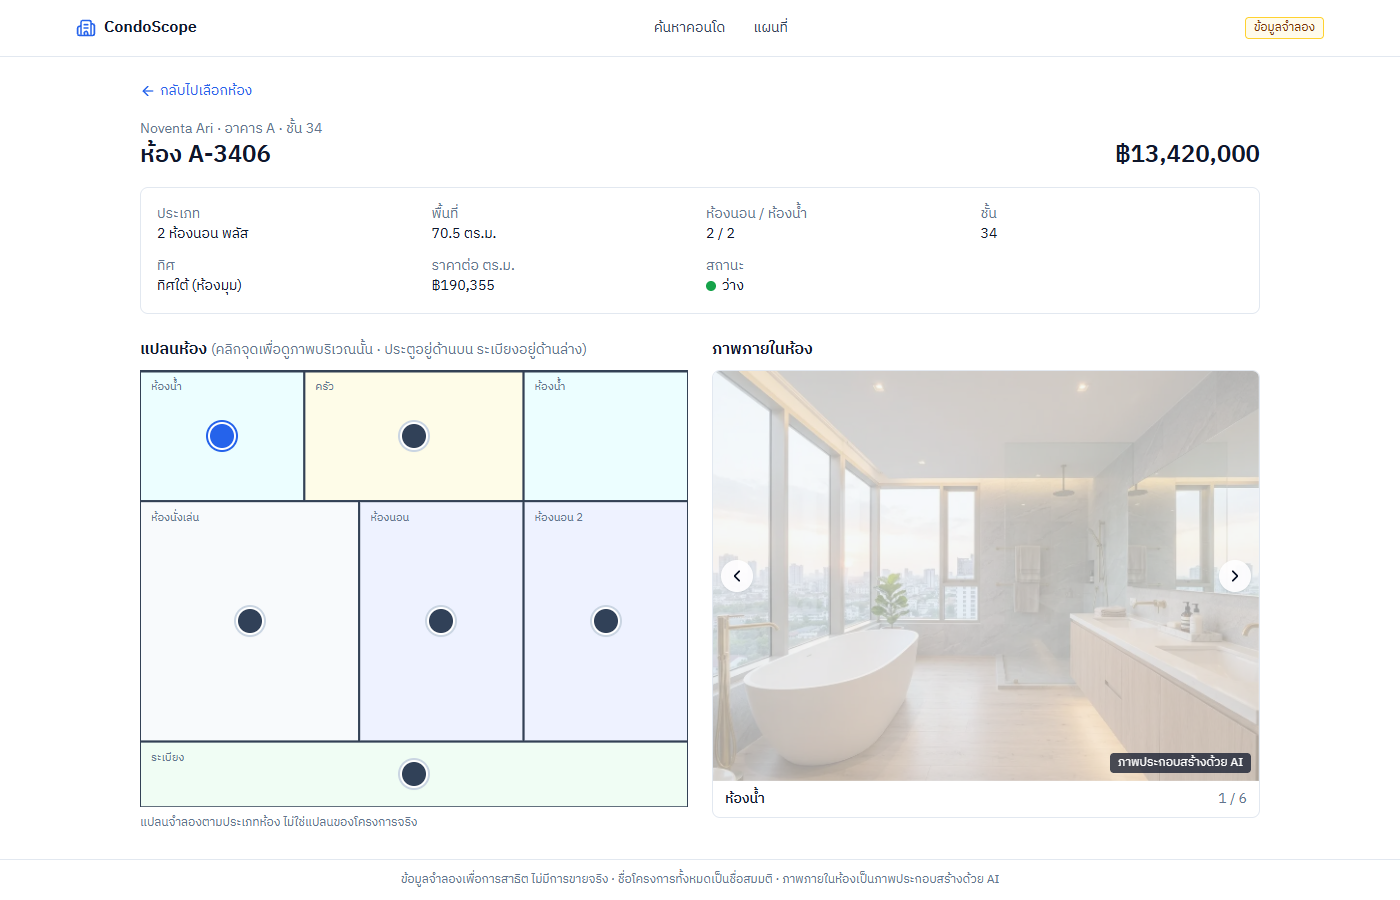
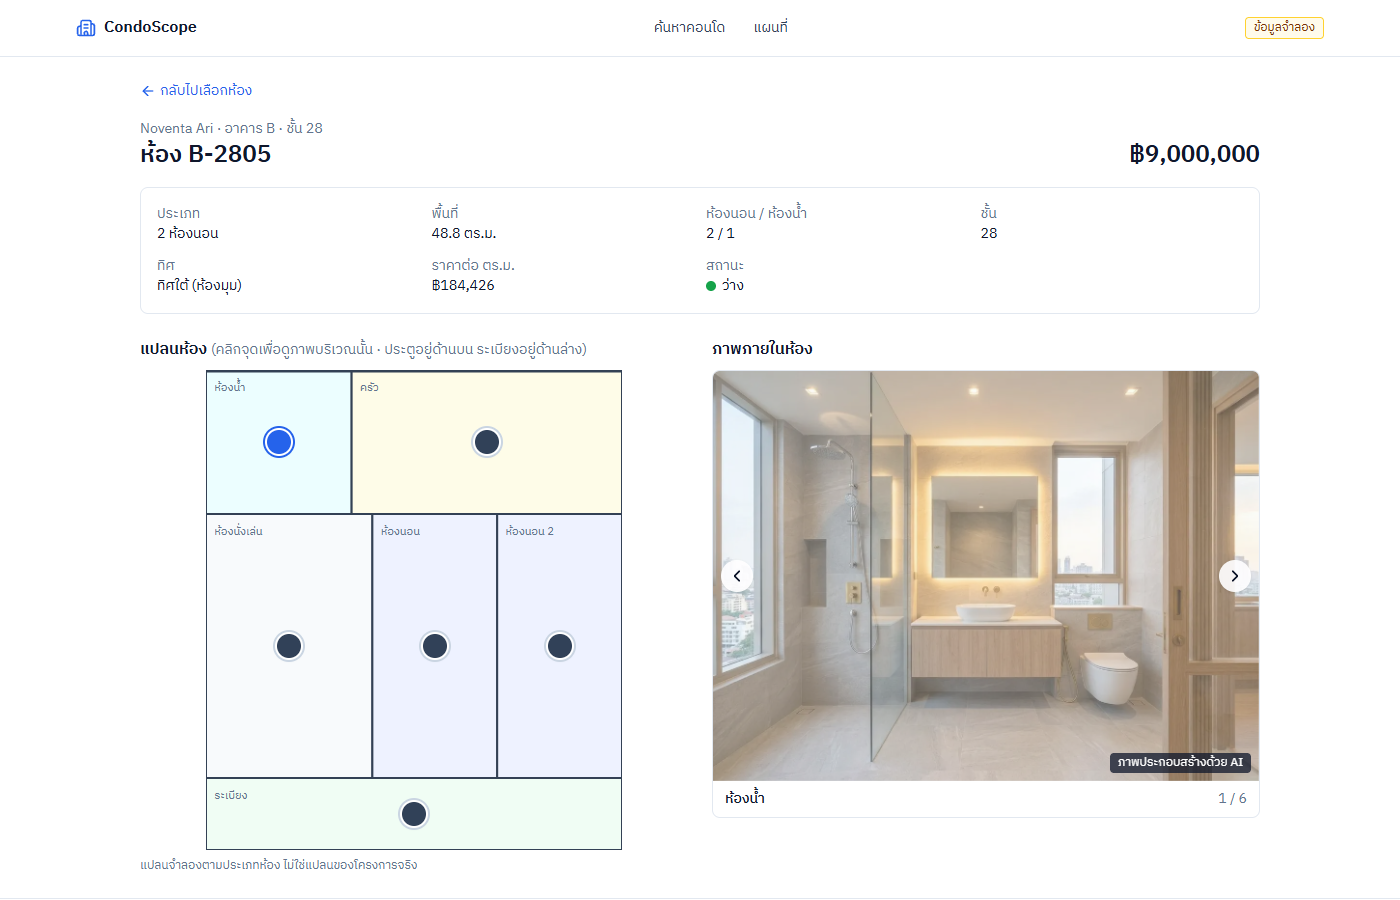
docs: screenshots, README and architecture for the full-screen explorer; plan 4 status

diff --git a/apps/web/e2e/screenshots.spec.ts b/apps/web/e2e/screenshots.spec.ts
@@ -10,7 +10,7 @@ const dir = fileURLToPath(new URL('../../../docs/screenshots/', import.meta.url)
 const shot = (page: import('@playwright/test').Page, name: string) => page.screenshot({ path: `${dir}${name}.png` });
 const MINIMAL_STYLE = { version: 8, sources: {}, layers: [{ id: 'bg', type: 'background', paint: { 'background-color': '#e8eef5' } }] };
 
-test('ภาพหน้าจอ 6 หน้าสำหรับ README', async ({ page }) => {
+test('ภาพหน้าจอสำหรับ README (6 หน้า + มุมมองชั้น + มือถือ)', async ({ page }) => {
   mkdirSync(dir, { recursive: true });
   await page.route('https://tiles.openfreemap.org/**', (r) => r.fulfill({ status: 200, contentType: 'application/json', body: JSON.stringify(MINIMAL_STYLE) }));
 
@@ -43,8 +43,25 @@ test('ภาพหน้าจอ 6 หน้าสำหรับ README', asyn
   await page.waitForTimeout(500);
   await shot(page, 'explorer');
 
+  // the floor view: "ดูทั้งชั้น" glides the camera over the floor; wait until it has arrived
+  await page.getByRole('button', { name: /^ดูทั้งชั้น \d+$/ }).click();
+  await page.waitForFunction(() => !window.__condoscope!.cameraBusy(), null, { timeout: 60_000 });
+  await page.waitForTimeout(2000);
+  await shot(page, 'explorer-floor');
+
   await page.goto(`#/unit/${u.id}`);
   await expect(page.getByRole('heading', { level: 1 })).toHaveText(`ห้อง ${u.unit_number}`);
   await page.waitForLoadState('networkidle');
+  await page.waitForFunction(() => { const i = document.querySelector('figure img') as HTMLImageElement | null; return !!i && i.complete && i.naturalWidth > 0; }, null, { timeout: 30_000 });
   await shot(page, 'unit');
+
+  // a phone: the explorer with the bottom sheet peeking after a room was picked
+  await page.setViewportSize({ width: 390, height: 844 });
+  await open3D(page, 1);
+  const [m] = await visibleUnits(page, 1, 1);
+  await page.mouse.click(m.x, m.y);
+  await expect(page.getByRole('region', { name: 'แผงห้อง' }).getByText(new RegExp(`ห้อง ${m.unit_number}`))).toBeVisible();
+  await page.mouse.move(2, 2); // no hover tooltip on a phone
+  await page.waitForTimeout(300);
+  await shot(page, 'explorer-mobile');
 });

diff --git a/CLAUDE.md b/CLAUDE.md
@@ -48,12 +48,13 @@
   - ⚠ บน Windows Playwright ค้างประมาณ 5 นาทีตอนปิดเซิร์ฟเวอร์หลังรัน test เสร็จ (ผล test ไม่กระทบ) · e2e ใช้พอร์ต 4321
   - บันทึกการตัดสินใจระหว่างพัฒนาอยู่ใน `.superpowers/sdd/2026-11-09-plan-1-data-explorer-unit/progress.md` (ไม่อยู่ใน git)
 - 💤 **งานเสริมหลังแผน 3 (ยังไม่เริ่ม ห้ามเริ่มเองจนกว่าผู้ใช้อนุญาต):** เพิ่มประเภทห้องใหม่ 3 แบบตามลำดับ penthouse (ห้องใหญ่ชั้นบนสุด) → duplex (ห้อง 2 ชั้น แปลนแยกสองชั้น) → full-floor (ห้องเดียวทั้งชั้น) ต้องแก้โมเดลข้อมูล, ตัวสร้างตึก 3D, หน้ารายละเอียดห้อง, รูปภายใน (ผู้ใช้เจนเองด้วย Gemini) และ test case ใน `docs/qa-ba/` — รายละเอียดในสเปกข้อ 14
-- 📝 **แผน 4 (รอบ UX/UI) เขียนแล้ว รอผู้ใช้อนุมัติ — ห้ามเขียนโค้ดจนกว่าจะอนุมัติ** (`docs/plans/2026-11-11-plan-4-ux-ui.md`, 9 task: Explorer เต็มจอ + แผงลอยโปร่งแสง, กล้องหลบแผง, bottom sheet มือถือ, คีย์บอร์ด/screen reader, ยืนยันหมุด→หน้าโครงการ, ปัญหาจาก QA ถ้ามี) · ผู้ใช้สั่งเพิ่ม 2026-11-09 · **คำตอบผู้ใช้ 2026-11-11: กดหมุดแผนที่แล้วไปหน้าโครงการ** (ตรงกับที่ทำไว้แล้ว ข้อขัดแย้งกับสเปกข้อ 8.1 ปิดแล้ว) · งานเสริมประเภทห้องยังไม่อนุญาต
-  - หน้า Explorer: ตึก 3D เต็มหน้าจอ แผงรายการห้อง/ตัวกรอง/รายละเอียดห้องลอยทับด้านข้างแบบโปร่งแสง (ต้องคงใช้คีย์บอร์ดและ screen reader ได้ และบนมือถือยังเป็น bottom sheet)
-  - แผนที่กรุงเทพฯ (MapLibre + OpenFreeMap) ปักหมุดทั้ง 5 โครงการตามพิกัดในข้อมูลจำลอง กดหมุดแล้วเข้า Explorer ของโครงการนั้น — ⚠ ขัดกับสเปกข้อ 8.1 ที่ให้ 3D เข้าผ่านหน้าโครงการ: ถามผู้ใช้ก่อนทำว่าจะให้หมุดไป Explorer ตรงๆ หรือไปหน้าโครงการ (หรือ popup มีปุ่มทั้งสอง)
-  - หน้าแรกยังเป็นหน้าค้นหาก่อน แผนที่เป็นมุมมองสลับ (ตามกฎเดิม)
-  - ตรวจ terms ของ OpenFreeMap ก่อนทำแผนที่ (ตรงกับสเปกข้อ 13.12)
-  - หมายเหตุ: แผน 3 มีหน้า Map (หมุด 5 โครงการ + popup) อยู่แล้ว งานรอบนี้คือปรับต่อจากของแผน 3
+- ✅ **แผน 4 (รอบ UX/UI) เขียนโค้ดครบแล้ว บน branch `feat/plan-4` รอผู้ใช้ merge** (`docs/plans/2026-11-11-plan-4-ux-ui.md`; ผู้ใช้อนุมัติ 2026-11-11 พร้อมแก้ 2 ข้อ: แผงเป็น dark glass ตัวอักษรขาว และเพิ่ม Task 6B "ดูทั้งชั้น"; Task 8 ข้ามเพราะยังไม่มีผล QA) · **คำตอบผู้ใช้: กดหมุดแผนที่แล้วไปหน้าโครงการ** (ตรงกับที่ทำไว้แล้ว ข้อขัดแย้งกับสเปกข้อ 8.1 ปิดแล้ว; มี e2e กันถดถอย)
+  - ทำแล้ว: Explorer เต็มจอ (`Layout` สูง 100dvh เฉพาะ `/explorer/…`) · แผง dark glass `OverlayPanel` + test คอนทราสต์ ≥ 4.5:1 กรณีแย่สุด · เลย์เอาต์ desktop (แท็บ ห้อง/ตัวกรอง/ชั้น, ลิงก์กลับหน้าโครงการ, ซ่อนแผงได้และจำใน sessionStorage) · มือถือ bottom sheet 3 สถานะ (ปุ่ม ไม่ลากนิ้ว) · ห้องที่ถูกแผงบังไม่นับว่ามองเห็น · LiveAnnouncer + ลำดับ Tab + วงโฟกัส + `prefers-reduced-motion` (กล้องกระโดด) + axe 3 สถานะ · "ดูทั้งชั้น" กล้องไหลพอดีพื้นที่ว่างระหว่างแผง เลือกด้านที่ตึกพี่น้องไม่บัง บล็อกเมืองที่บังจางลง · ภาพหน้าจอใหม่ (explorer, explorer-floor, explorer-mobile) + README + `docs/architecture.md`
+  - Test ล่าสุด: Vitest shared 88 + api 210 + web 192 ผ่าน, `tsc` ผ่าน, bundle ผ่าน (Building3D 293.5 KB, หน้าแรก 97.3 KB gzip), e2e รอบเต็ม 40 ผ่าน + 1 ข้าม (spec ภาพหน้าจอ) · ledger: `.superpowers/sdd/2026-11-11-plan-4-ux-ui/progress.md`
+  - ⚠ ข้อสังเกต: e2e ข้อ "ดูทั้งชั้น…" ล้มหนึ่งครั้งในรอบเต็มรอบแรกโดยไม่ทราบสาเหตุ (ผ่านเดี่ยว 3 ครั้งและรอบเต็มรอบที่ 2) จึงเพิ่ม timeout เป็น 180 วินาที ถ้าเจอซ้ำให้ตรวจ · `npm run e2e -- -g` ใช้ไม่ได้ (npm อ่านเป็น `--global`) ให้ระบุไฟล์:บรรทัด หรือ `--grep`
+  - 🧑 **ผู้ใช้ต้องทำเอง:** (1) ลองบนเครื่องจริง: ประสิทธิภาพ blur/FPS บนเครื่องอ่อน, มือถือจริง iOS/Android, screen reader จริง (NVDA ฯลฯ) — ผมวัดไม่ได้ (e2e ใช้ software WebGL) (2) **test case ใน `docs/qa-ba/` ที่อาจล้าสมัย (ผมไม่แก้ให้):** TC-040–048 (โหลดตึก/ทุกโครงการ), TC-052 และกลุ่มตัวกรอง/ผ่าชั้นในหมวด 6 (ตัวกรองย้ายไปแท็บ "ตัวกรอง" ผ่าชั้นเป็นแท็บ "ชั้น" และปุ่ม "ดูทั้งชั้น" ใน panel ห้องมีการซูมกล้อง), TC-062–065 (คีย์บอร์ด, แตะบนมือถือ — ตอนนี้เป็น bottom sheet 3 สถานะ, Contrast ของแผง), TC-074 (ลิงก์กลับ), TC-101, TC-118 และ `user-flow.md` ที่อาจบรรยายเลย์เอาต์เก่า
+  - ข้อเล็กที่ยังไม่แก้ (ผู้ใช้ตัดสินใจ): ตึกอื่นในโครงการไม่ถูกทำให้จางตอน "ดูทั้งชั้น" (กล้องเลือกด้านที่ไม่บังแทน) · ตะขอทดสอบ `window.__condoscope` (มี `cameraBusy` เพิ่ม) ยังอยู่ใน production · ปุ่ม X ของ UnitPanel (ล้างการเลือก) อยู่ซ้อนกับปุ่มซ่อนแผงใน bottom sheet ที่ขยาย อาจสับสน · OpenFreeMap ToS ตรวจซ้ำ 2026-11-11 ไม่เปลี่ยน (อัปเดต 14 ต.ค. 2026)
+  - ยังไม่เริ่ม (ห้ามเริ่มเองจนกว่าผู้ใช้อนุญาต): งานเสริมประเภทห้องใหม่ (ด้านบน) และรอบ UX/UI ครั้งถัดไปหลังได้ผล QA จริง (Task 8 ของแผน 4)
 
 ## กฎที่ห้ามฝ่า
 - **งบ 0 บาท:** ใช้ free tier และ open source เท่านั้น ห้ามใช้บริการที่ต้องผูกบัตร

diff --git a/docs/architecture.md b/docs/architecture.md
@@ -102,6 +102,13 @@ erDiagram
 | `#/map` | แผนที่ MapLibre + หมุด 5 โครงการ (สลับเป็นรายการได้) | `/api/projects` |
 | `#/reservations` | รายการจองจำลอง (เก็บใน localStorage ของเบราว์เซอร์เท่านั้น) | `/api/units/:id` ต่อรายการ |
 
+**หน้า Explorer เต็มจอ (แผน 4):** ตึก 3D กินพื้นที่ทั้งหน้า (`Layout` ให้ `<main>` สูง `100dvh` ลบ Navbar เฉพาะเส้นทาง `/explorer/…` ส่วน Footer ที่มีข้อความข้อมูลจำลองอยู่ใต้หน้าจอ และป้าย "ข้อมูลจำลอง" ใน Navbar เห็นตลอด)
+- **แผงลอย:** `OverlayPanel` สไตล์ dark glass (พื้น slate-900 ความทึบ 82%, ตัวอักษรขาว, blur เฉพาะจอ ≥ md และเมื่อไม่ลดการเคลื่อนไหว) สีอยู่ใน `components/glass.ts` สะท้อนใน `index.css` (`.glass`) และ `lib/contrast.test.ts` ตรวจ ≥ 4.5:1 กับฉากหลังดำสนิทและขาวสนิท (กรณีแย่สุด เพราะ axe ไม่เห็นสีใน canvas) ว่าสีใน CSS ตรงกับโทเค็น
+- **จอใหญ่ (≥ 768 px):** คอลัมน์ซ้าย = ชื่อโครงการ + ลิงก์ "กลับหน้าโครงการ", มุมมอง (3D/2D, พลบค่ำ/กลางวัน), Legend · คอลัมน์ขวา = รายละเอียดห้อง + แท็บ ห้อง/ตัวกรอง/ชั้น (ARIA tabs ใช้ลูกศร/Home/End) ซ่อนได้ด้วยปุ่ม จำใน `sessionStorage` · **มือถือ:** `BottomSheet` 3 สถานะ (ย่อ/ขยาย/ซ่อน) สลับด้วยปุ่ม ไม่ใช้ท่าลากนิ้ว เลือกห้องตอนซ่อนจะกลับมาเป็นย่อ
+- **ห้องที่แผงบัง:** `screenPoint` (ใช้ทั้งกล้องและตะขอทดสอบ `window.__condoscope.projectUnit`) ไม่นับห้องที่อยู่ใต้ `.glass` ว่ามองเห็น กล้องจึงหมุนไปหาห้องที่แผงบัง และ e2e ไม่คลิกโดนแผง · (แผนเดิมจะเลื่อนภาพด้วย `setViewOffset` แต่ตรวจแล้วไม่จำเป็น: คอลัมน์ซ้ายและขวากินพื้นที่สมดุลกัน)
+- **ดูทั้งชั้น:** `floorViewGoal` (ใน `scene/layout.ts`) หาตำแหน่งกล้องที่เห็นผังชั้นทั้งหมด (รวมระเบียง) พอดีในพื้นที่ว่างระหว่างแผง (`freeWidthFraction`) และเลือกด้านที่ตึกอื่นในโครงการไม่บัง (`towerBox`, `occludesFloorView`) กล้องไหลด้วย `stepCamera` (กระโดดทันทีเมื่อ `prefers-reduced-motion`) ส่วนบล็อกเมืองรอบๆ ที่อยู่บนแนวสายตาจะจางลง (`City.tsx`) แล้วกลับมาเมื่อออกจากโหมดผ่าชั้น · ข้อจำกัด: ตึกอื่นในโครงการไม่ถูกทำให้จาง (กล้องเลือกด้านที่ไม่บังแทน)
+- **การเข้าถึง:** live region `LiveAnnouncer` ประกาศ เลือกห้อง/ล้างการเลือก/จำนวนห้องที่ตรงตัวกรอง; ลำดับ Tab = ลิงก์กลับและปุ่มมุมมอง → พื้นที่ตึก (ลูกศร/Enter/Esc) → แผงขวา; พื้นที่ตึกมีวงโฟกัสชัด; axe ตรวจ 3 สถานะ (desktop ไม่เลือก, desktop เลือกห้อง+แท็บตัวกรอง, มือถือย่อ/ขยาย) · ยังต้องให้คนทดสอบกับ screen reader จริง (NVDA ฯลฯ) และดูประสิทธิภาพ blur บนเครื่องอ่อน
+
 **ชั้นข้อมูล** (`services/api.ts` + `hooks/useResource.ts`): ทุกหน้าเรียกผ่าน `useResource(fetcher, deps)` ที่คืนสถานะ loading / ok / missing / error (มีปุ่มลองใหม่) คำตอบเก่าของคำขอที่ถูกแทนที่แล้วจะถูกทิ้ง ไม่เขียนทับหน้าใหม่ และรายงานแหล่งข้อมูล (live/fallback) ให้ Layout แสดงแบนเนอร์ Demo Fallback Mode
 
 **ตัวล้างพารามิเตอร์ค้นหา** (`packages/shared/src/searchParams.ts`): URL ค้นหาที่เป็นขยะ (ตัวเลขผิดรูป, ราคาต่ำสุดมากกว่าสูงสุด, `limit=999`, ข้อความยาว 500 ตัวอักษร) ถูกตัด/สลับ/ตกกลับค่าปกติก่อนส่ง API ทุกครั้ง มี test ว่าอินพุตเลอะ 273 แบบผ่าน validation ของ API ได้ ผู้ใช้จึงไม่เจอ 400

diff --git a/docs/plans/2026-11-11-plan-4-ux-ui.md b/docs/plans/2026-11-11-plan-4-ux-ui.md
@@ -12,7 +12,7 @@
 
 **ก่อนเริ่ม:** แตก `feat/plan-4` จาก `main` (PR #3 merge แล้ว) และให้ผู้ใช้ส่ง **รายการปัญหา UX จากการทำ QA บนเว็บจริง** (ถ้ามี) มาก่อนอนุมัติ — ดู Task 8
 
-## สถานะของแผนนี้
+## สถานะของแผนนี้ (เสร็จ 2026-11-11 ยกเว้น Task 8 ที่ข้ามตามคำสั่ง)
 
 **ผู้ใช้อนุมัติแล้ว 2026-11-11 พร้อมแก้ 2 ข้อ** (ข้อ 2: แผงเป็น dark glass ตัวอักษรขาว; เพิ่ม Task 6B: ดูทั้งชั้นแล้วกล้องซูมนุ่มนวลและตึกข้างเคียงที่บังจางลง) และสั่ง**ข้าม Task 8** (ยังไม่มีผล QA) · ทำในแชทเดียว commit ทีละ task บน branch `feat/plan-4`
 
